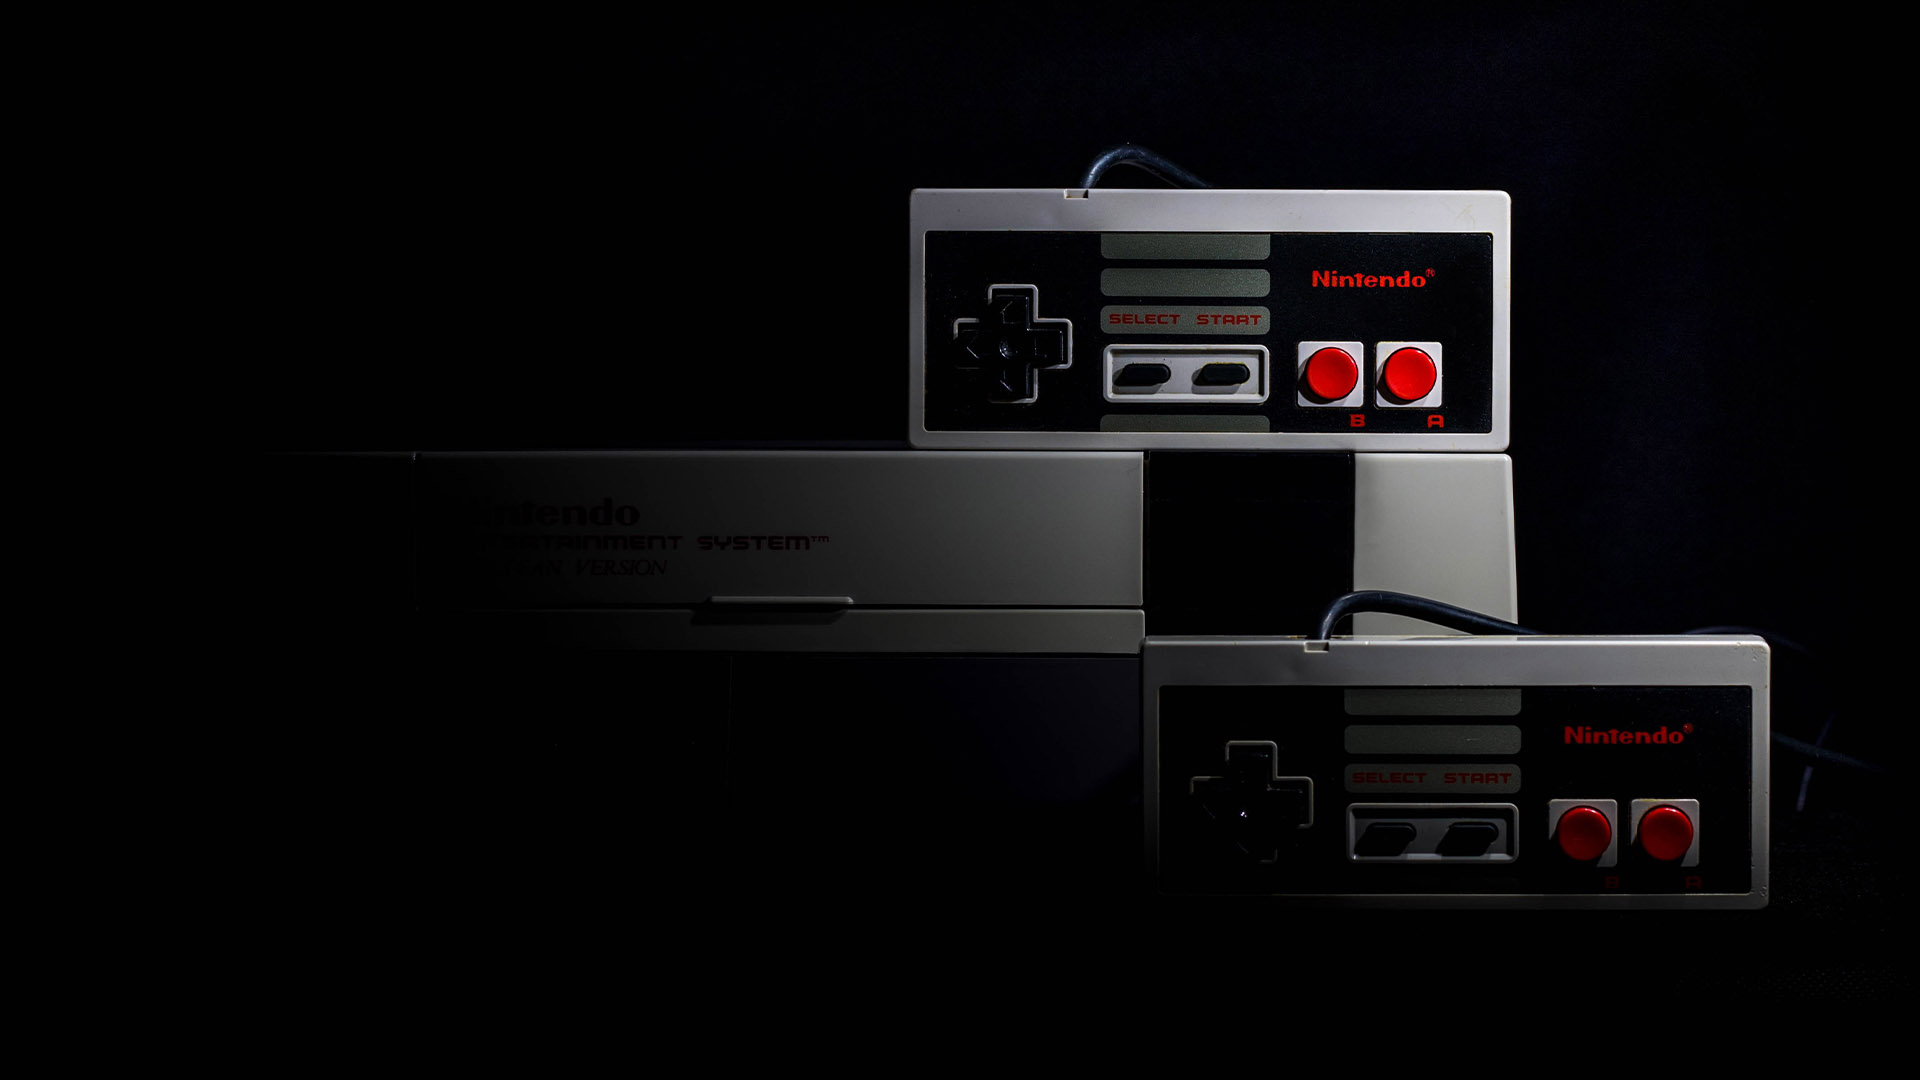
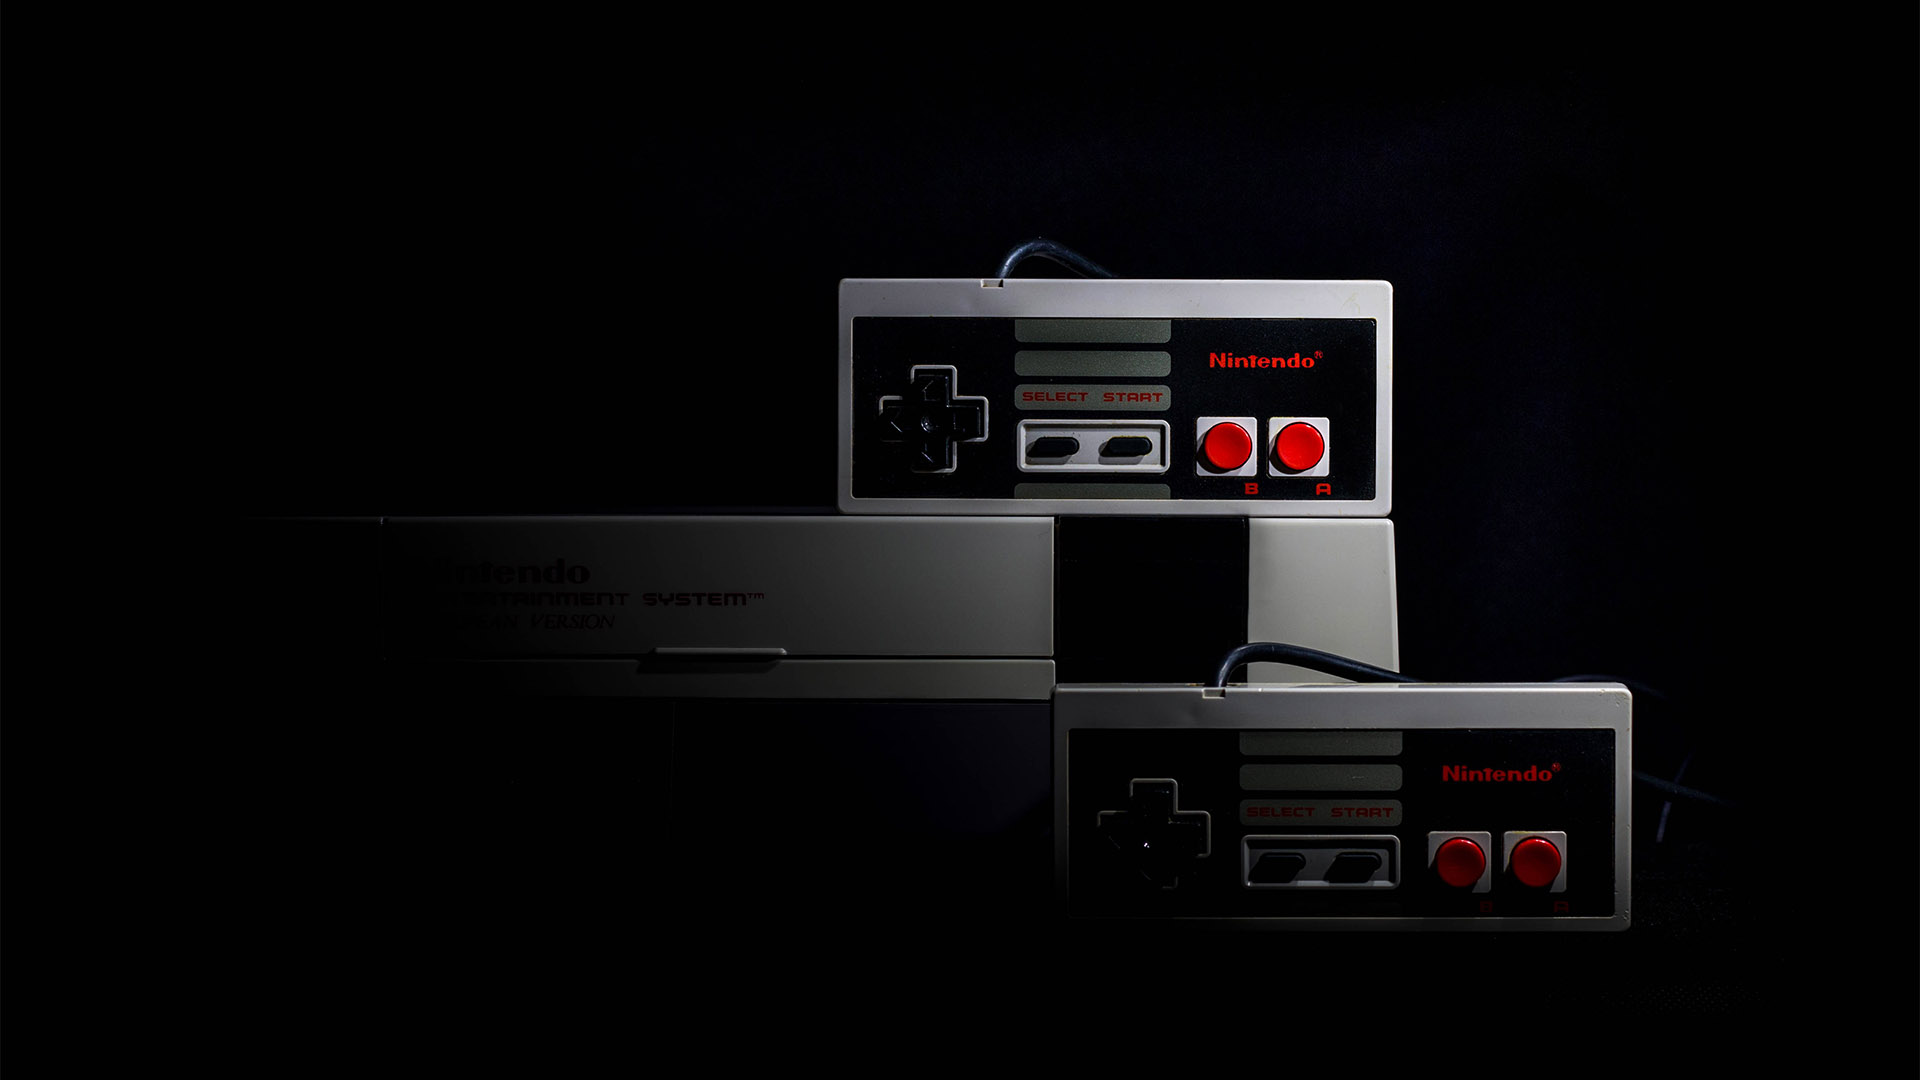
Replace background image on contact page

Changed region(s): [[0.25, 0.1222, 0.9375, 0.8861]]

diff --git a/assets/css/style.css b/assets/css/style.css
@@ -268,10 +268,8 @@ footer h5 {
 /* Contact page */
 
 .contact-section {
-    background: url(../images/contact.jpg);
-    background-size: cover;
-    background-position: center;
-    height: 800px;
+    background: url(../images/nes-console.jpg) no-repeat center center;
+    height: 650px;
 }
 
 .form {
